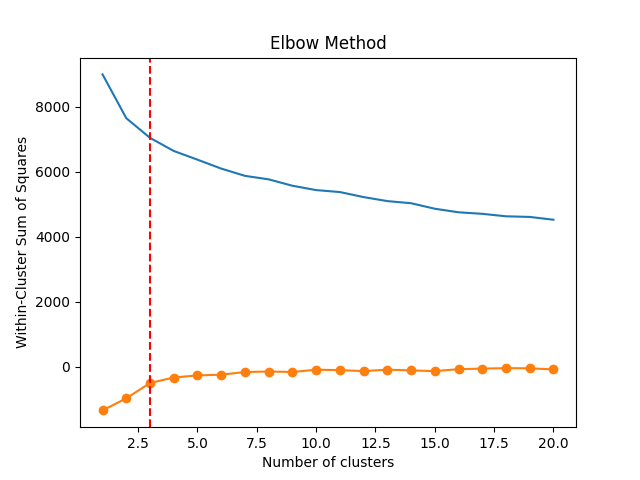
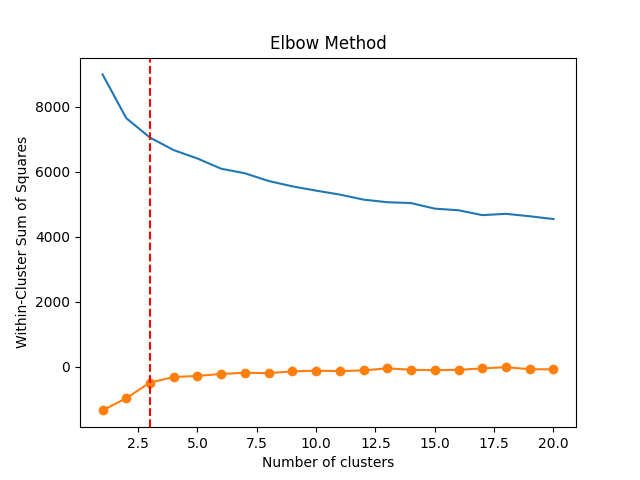
依旧失败的模型训练

diff --git a/src/middlewares/authMiddleware.ts b/src/middlewares/authMiddleware.ts
@@ -4,7 +4,7 @@ import { sendError } from '../util/response.js';
 
 function authMiddleware(req: Request, res: Response, next: NextFunction) {
     const authHeader = req.headers.authorization;
-    console.log('🔐 [authMiddleware] 检查授权头:', authHeader ? '✅ 存在' : '❌ 缺失');
+    console.log('🔐 [authMiddleware] 检查授权头:', authHeader ? '✅ 存在' : '❌ 缺失',authHeader);
     
     if (!authHeader || !authHeader.startsWith('Bearer ')) {
         console.error('❌ [authMiddleware] 缺失或无效的授权头:', authHeader);

diff --git a/modelTraining/sleepTraining/sleepDataMiner.py b/modelTraining/sleepTraining/sleepDataMiner.py
@@ -1,0 +1,117 @@
+import pandas as pd
+import numpy as np
+from datetime import datetime
+import warnings
+
+# 忽略一些pandas的常规警告，保持控制台整洁
+warnings.filterwarnings('ignore')
+
+class SleepDataMiner:
+    """
+    睡眠数据深度分析类 (工业级复用版)
+    功能：自动加载数据、切割对照组(有无咖啡因)、执行深度统计与相关性挖掘，并生成TXT报告。
+    """
+    def __init__(self, file_path, target_col='Sleep_Quality_Score'):
+        self.file_path = file_path
+        self.target_col = target_col
+        self.df = None
+        self.report_content = [] # 用于缓存最终写入 txt 的内容
+
+    def load_data(self):
+        """加载并校验数据"""
+        try:
+            self.df = pd.read_csv(self.file_path)
+            self._log(f"✅ 数据加载成功: {self.file_path} | 总样本量: {self.df.shape[0]}")
+        except Exception as e:
+            self._log(f"❌ 数据加载失败: {e}")
+            raise
+
+    def split_by_caffeine(self, threshold=0):
+        """
+        核心逻辑：根据咖啡因摄入量将数据切分为两个对照组。
+        默认 threshold=0，即 >0 为有咖啡因组，==0 为无咖啡因组。
+        """
+        if 'Caffeine_Intake_mg' not in self.df.columns:
+            raise ValueError("数据中缺失核心字段: Caffeine_Intake_mg")
+
+        group_caffeine = self.df[self.df['Caffeine_Intake_mg'] > threshold]
+        group_no_caffeine = self.df[self.df['Caffeine_Intake_mg'] <= threshold]
+        
+        self._log(f"📊 分组完成: 有咖啡因组 ({len(group_caffeine)} 样本) VS 无咖啡因组 ({len(group_no_caffeine)} 样本)")
+        return group_caffeine, group_no_caffeine
+
+    def extract_deep_insights(self, data_subset, group_name):
+        """对传入的数据子集进行深度特征提取和相关性分析"""
+        self._log(f"\n{'='*20} [{group_name}] 深度数据分析 {'='*20}")
+        
+        if data_subset.empty:
+            self._log("⚠ 该组数据为空，跳过分析。")
+            return
+            
+        # 1. 目标变量的客观分布
+        target_mean = data_subset[self.target_col].mean()
+        target_std = data_subset[self.target_col].std()
+        self._log(f"➤ 目标指标 [{self.target_col}] 概况:")
+        self._log(f"   - 均值: {target_mean:.2f} | 标准差: {target_std:.2f}")
+        
+        # 2. 特征相关性计算 (与睡眠质量的关联度)
+        self._log(f"➤ 各特征对 [{self.target_col}] 的线性影响系数 (Pearson):")
+        correlations = data_subset.corr()[self.target_col].drop(self.target_col).sort_values(ascending=False)
+        
+        # 提取正负相关Top3
+        for feature, corr_val in correlations.items():
+            strength = "强" if abs(corr_val) > 0.5 else ("中" if abs(corr_val) > 0.3 else "弱")
+            direction = "正相关" if corr_val > 0 else "负相关"
+            self._log(f"   - {feature:<25}: {corr_val:>6.2f} ({strength}{direction})")
+
+        # 3. 核心统计学极值特征提取
+        self._log("➤ 核心变量的客观表现 (均值/波动范围):")
+        features_to_check = ['Stress_Level', 'Sleep_Duration_Hours', 'Heart_Rate_Variability']
+        for col in features_to_check:
+            if col in data_subset.columns:
+                mean_val = data_subset[col].mean()
+                min_val, max_val = data_subset[col].min(), data_subset[col].max()
+                self._log(f"   - {col:<25}: 均值 {mean_val:.2f} [极值: {min_val:.1f} ~ {max_val:.1f}]")
+
+    def _log(self, message):
+        """内部日志方法，同时打印到控制台并缓存以写入文件"""
+        print(message)
+        self.report_content.append(message)
+
+    def export_to_txt(self, output_filename=None):
+        """将积累的分析结论打包输出为TXT"""
+        if not output_filename:
+            timestamp = datetime.now().strftime("%Y%m%d_%H%M%S")
+            output_filename = f"Sleep_Analysis_Report_{timestamp}.txt"
+            
+        with open(output_filename, 'w', encoding='utf-8') as f:
+            f.write("\n".join(self.report_content))
+            
+        print(f"\n💾 恭喜！深度分析报告已成功打包保存至: {output_filename}")
+
+    def run_pipeline(self):
+        """执行完整的数据挖掘与报告生成流水线"""
+        self._log("🚀 启动数据分析流水线...")
+        self.load_data()
+        
+        # 将数据分为有无咖啡因两大类
+        group_caf, group_none_caf = self.split_by_caffeine()
+        
+        # 分别对两大类进行深度切片分析
+        self.extract_deep_insights(group_caf, "【实验组】摄入咖啡因人群 (>0mg)")
+        self.extract_deep_insights(group_none_caf, "【对照组】零咖啡因人群 (0mg)")
+        
+        # 输出最终报告
+        self.export_to_txt()
+
+
+# ==========================================
+# 🚀 实例化调用与执行 (复用入口)
+# ==========================================
+if __name__ == "__main__":
+    # 你只需要修改这里的文件名
+    DATA_FILE = './csv/wearable_tech_sleep_quality.csv'  
+
+    # 实例化大类并执行流水线
+    miner = SleepDataMiner(file_path=DATA_FILE)
+    miner.run_pipeline()

diff --git a/modelTraining/sleepTraining/firstStep.py b/modelTraining/sleepTraining/firstStep.py
@@ -1,0 +1,128 @@
+import pandas as pd
+import numpy as np
+import matplotlib.pyplot as plt
+import seaborn as sns
+import os
+
+# ==========================================
+# 1. 数据加载与基础信息设置
+# ==========================================
+# 请将 'your_sleep_data.csv' 替换为你实际的文件路径
+file_path = 'csv/wearable_tech_sleep_quality.csv' 
+
+# 设定我们在分析中关注的特征列
+columns_of_interest = [
+    'Heart_Rate_Variability', 'Body_Temperature', 'Movement_During_Sleep',
+    'Sleep_Duration_Hours', 'Sleep_Quality_Score', 'Caffeine_Intake_mg',
+    'Stress_Level', 'Bedtime_Consistency', 'Light_Exposure_hours'
+]
+
+# 读取CSV数据
+try:
+    df = pd.read_csv(os.path.join(os.path.dirname(__file__), file_path))
+    print("✅ 数据加载成功！\n")
+except FileNotFoundError:
+    print(f"❌ 找不到文件，请检查路径: {os.path.join(os.path.dirname(__file__), file_path)}")
+    exit()
+
+# 如果原始数据包含其他列，我们只提取需要的列进行分析
+df = df[columns_of_interest]
+
+# 设置可视化的默认风格（可选）
+sns.set_theme(style="whitegrid")
+plt.rcParams['font.sans-serif'] = ['SimHei'] # 用来正常显示中文标签（如果你用的是Windows）
+plt.rcParams['axes.unicode_minus'] = False   # 用来正常显示负号
+
+# ==========================================
+# 2. 基础数据结构与缺失值检查
+# ==========================================
+print("-" * 50)
+print("【1】数据维度与基础信息")
+print("-" * 50)
+print(f"数据总行数 (样本数): {df.shape[0]}")
+print(f"数据总列数 (特征数): {df.shape[1]}\n")
+
+print("各列缺失值统计:")
+missing_data = df.isnull().sum()
+print(missing_data[missing_data > 0] if missing_data.sum() > 0 else "完美！没有任何缺失值。")
+print("\n")
+
+# ==========================================
+# 3. 详细的数值统计（分布、极值）
+# ==========================================
+print("-" * 50)
+print("【2】核心描述性统计指标")
+print("-" * 50)
+# 描述性统计包含：均值、标准差、最小值、25%分位数、中位数(50%)、75%分位数、最大值
+desc_stats = df.describe().T
+
+# 添加偏度(Skewness)和峰度(Kurtosis)以观察分布形态
+# 偏度衡量分布的不对称性，峰度衡量尾部的厚度
+desc_stats['偏度 (Skewness)'] = df.skew()
+desc_stats['峰度 (Kurtosis)'] = df.kurt()
+
+# 格式化输出，保留两位小数
+print(desc_stats.round(2).to_string())
+print("\n")
+
+# ==========================================
+# 4. 异常值/极值检测 (基于IQR原则)
+# ==========================================
+print("-" * 50)
+print("【3】极值与潜在异常值检测 (基于1.5 * IQR)")
+print("-" * 50)
+for col in df.columns:
+    Q1 = df[col].quantile(0.25)
+    Q3 = df[col].quantile(0.75)
+    IQR = Q3 - Q1
+    lower_bound = Q1 - 1.5 * IQR
+    upper_bound = Q3 + 1.5 * IQR
+    
+    outliers = df[(df[col] < lower_bound) | (df[col] > upper_bound)][col]
+    if not outliers.empty:
+        print(f"[{col}] 检测到 {len(outliers)} 个潜在异常值。极值范围: ({outliers.min():.2f} ~ {outliers.max():.2f})")
+    else:
+        print(f"[{col}] 未检测到明显异常值。")
+print("\n")
+
+# ==========================================
+# 5. 相关性矩阵分析
+# ==========================================
+print("-" * 50)
+print("【4】特征相关性矩阵 (Pearson)")
+print("-" * 50)
+corr_matrix = df.corr()
+print(corr_matrix.round(2).to_string())
+print("\n")
+
+# ==========================================
+# 6. 数据可视化分布图 (直方图 & 箱线图)
+# ==========================================
+print("正在生成可视化图表...")
+
+# 创建一个大图布，绘制所有变量的直方图（看分布）和箱线图（看极值）
+fig, axes = plt.subplots(nrows=len(columns_of_interest), ncols=2, figsize=(12, 4 * len(columns_of_interest)))
+
+for i, col in enumerate(columns_of_interest):
+    # 绘制直方图（附带KDE核密度估计曲线）
+    sns.histplot(df[col], kde=True, ax=axes[i, 0], color='skyblue')
+    axes[i, 0].set_title(f'{col} - 分布(Histogram)', fontsize=12)
+    axes[i, 0].set_ylabel('频数')
+    
+    # 绘制箱线图
+    sns.boxplot(x=df[col], ax=axes[i, 1], color='lightgreen')
+    axes[i, 1].set_title(f'{col} - 箱线图(Boxplot)', fontsize=12)
+
+plt.tight_layout()
+plt.savefig('sleep_data_distributions.png', dpi=300)
+print("✅ 分布与极值可视化已保存为 'sleep_data_distributions.png'")
+
+# 绘制相关性热力图
+plt.figure(figsize=(10, 8))
+sns.heatmap(corr_matrix, annot=True, fmt=".2f", cmap='coolwarm', vmin=-1, vmax=1, square=True)
+plt.title('睡眠数据特征相关性热力图', fontsize=16)
+plt.tight_layout()
+plt.savefig('sleep_data_correlation.png', dpi=300)
+print("✅ 相关性热力图已保存为 'sleep_data_correlation.png'")
+
+print("基础数据探索完毕！")

diff --git a/modelTraining/sleepTraining/SleepClusterKMeans.py b/modelTraining/sleepTraining/SleepClusterKMeans.py
@@ -13,6 +13,7 @@ df = pd.read_csv(os.path.join(cur_path, './csv/wearable_tech_sleep_quality.csv')
 # 2. 数据标准化 (非常重要！)
 scaler = StandardScaler()
 scaled_data = scaler.fit_transform(df)
+print(scaled_data[:20])
 
 # 3. 使用肘部法（Elbow Method）找最佳聚类数 K
 xLimit = 20
